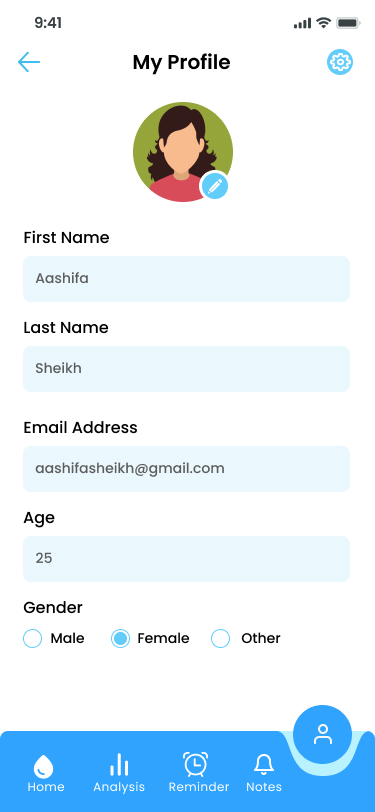
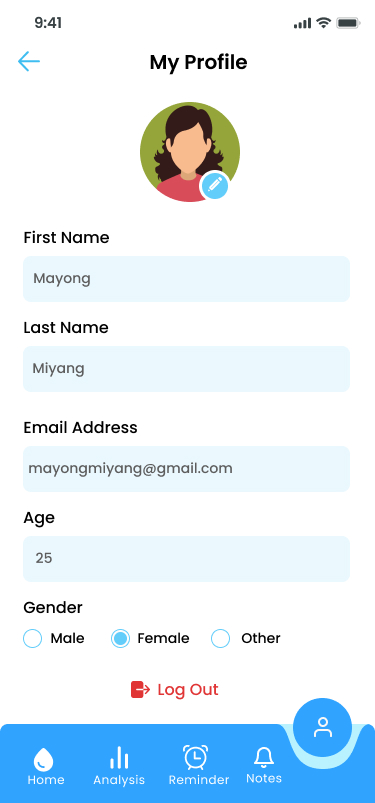
Update UI/UX design

diff --git a/README.md b/README.md
@@ -11,17 +11,9 @@ Hydration adalah aplikasi yang dibuat untuk membantu meningkatkan kesadaran masy
 
 ## UI/UX Design
 
-### Home Page
-![Home Page](./ui-ux/Home%20page.jpg)
+### Splash Screen
+![Splash Screen](./ui-ux/Splash%20Screen.jpg)
 
-### Light Daily Stats
-![Light Daily Stats](./ui-ux/Light%20daily%20stats%20page.png)
-
-### Light Monthly Stats
-![Light Monthly Stats](./ui-ux/Light%20monthly%20stats%20page.png)
-
-### Light Weekly Stats
-![Light Weekly Stats](./ui-ux/Light%20weekly%20stats%20page.png)
 
 ### Onboarding 1
 ![Onboarding 1](./ui-ux/Onboarding%201.jpg)
@@ -32,8 +24,37 @@ Hydration adalah aplikasi yang dibuat untuk membantu meningkatkan kesadaran masy
 ### Onboarding 3
 ![Onboarding 3](./ui-ux/Onboarding%203.jpg)
 
-### Profile
-![Profile](./ui-ux/Profile.jpg)
+
+### Log In
+![Log In](./ui-ux/Log%20In.jpg)
+
+
+### Sign In
+![Sign In](./ui-ux/Sign%20Up.jpg)
+
+
+### Forgot Password
+![Forgot Password](./ui-ux/Forgot%20password.jpg)
+
+
+
+### Home Page
+![Home Page](./ui-ux/Home%20page.jpg)
+![Home Desktop](./ui-ux/Home%20desktop.jpg)
+
+
+### Light Daily Stats
+![Light Daily Stats](./ui-ux/Light%20daily%20stats%20page.png)
+
+### Light Monthly Stats
+![Light Monthly Stats](./ui-ux/Light%20monthly%20stats%20page.png)
+
+### Light Weekly Stats
+![Light Weekly Stats](./ui-ux/Light%20weekly%20stats%20page.png)
+
+### Light Stats Desktop
+![Light Stats Desktop](./ui-ux/Light%20stats%20desktop.jpg)
+
 
 ### Reminder
 ![Reminder](./ui-ux/Reminder.jpg)
@@ -41,5 +62,12 @@ Hydration adalah aplikasi yang dibuat untuk membantu meningkatkan kesadaran masy
 ### Reminder 1
 ![Reminder 1](./ui-ux/Reminder-1.jpg)
 
-### Splash Screen
-![Splash Screen](./ui-ux/Splash%20Screen.jpg)
+
+### Profile
+![Profile](./ui-ux/Profile.jpg)
+
+
+### Log Out
+![Log Out](./ui-ux/Log%20Out.jpg)
+![Logged Out](./ui-ux/Logged%20Out.jpg)
+
